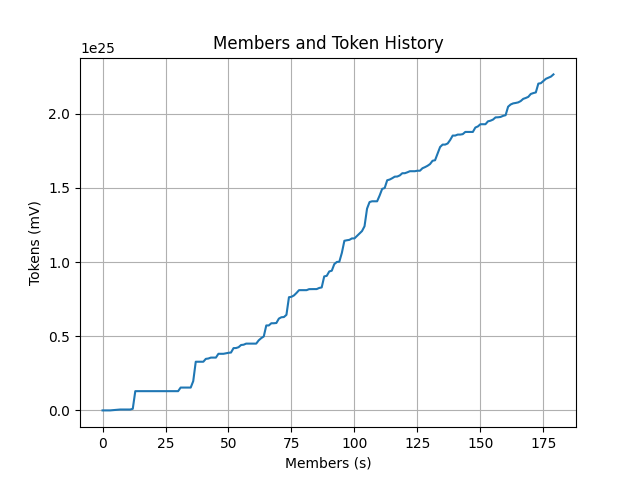
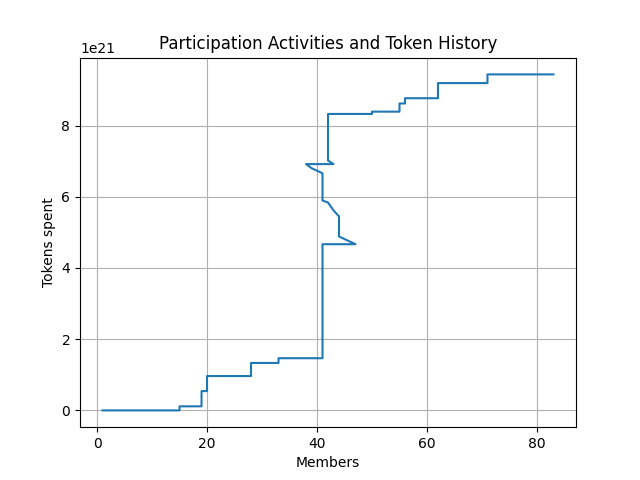
add constraints to util functions

diff --git a/utils.py b/utils.py
@@ -1,3 +1,4 @@
+from time import time
 from numpy import append
 from tokens import tokens
 
@@ -5,7 +6,7 @@ from tokens import tokens
 def in_euro(amount, usedToken):
     amount_in_euros = 0
     for token in tokens:
-        if(token["name"] == usedToken):
+        if token["name"] == usedToken:
             amount_in_euros = float(amount) * token["EUR"]
     return amount_in_euros
 
@@ -16,11 +17,15 @@ def get_amount_out_history(transactions):
 
     for transaction in transactions:
 
-        if (len(token_history) > 0):
-            newValue = int(in_euro(transaction.amount_in, transaction.token)) + \
+        if len(token_history) > 0:
+            newValue = int(transaction.amount_out) + \
                 int(token_history[len(token_history) - 1])
+        elif len(token_history) == 0:
+            newValue = int(transaction.amount_out)
+        elif len(token_history) > 0:
+            newValue = int(token_history[len(token_history) - 1])
         else:
-            newValue = int(transaction.amount_in)
+            newValue = 0
 
         token_history.append(newValue)
 
@@ -30,18 +35,23 @@ def get_amount_out_history(transactions):
 def get_amount_members(transactions):
 
     member_history = []
+    timestamps = []
 
     for transaction in transactions:
 
-        if(len(member_history) > 0):
-            if (int(transaction.amount_in) > 0):
+        if len(member_history) > 0:
+            if int(transaction.amount_in) > 0:
                 member_history.append(
                     member_history[len(member_history) - 1] + 1)
+            elif transaction.type == "Rage Quit" and transaction.date not in timestamps:
+                member_history.append(
+                    member_history[len(member_history) - 1] - 1)
+                timestamps.append(transaction.date)
             else:
                 member_history.append(
                     member_history[len(member_history) - 1])
         else:
-            if (int(transaction.amount_in) > 0):
+            if int(transaction.amount_in) > 0:
                 member_history.append(1)
             else:
                 member_history.append(0)

diff --git a/analysis.py b/analysis.py
@@ -1,3 +1,4 @@
+from audioop import reverse
 from matplotlib import pyplot as plt
 from utils import get_amount_members, get_amount_out_history
 from Transaction import Transaction
@@ -7,7 +8,7 @@ import numpy as np
 
 transactions = []
 
-with open('./data/metaCartel.csv') as csv_file:
+with open('./data/theLao.csv') as csv_file:
     csv_reader = csv.reader(csv_file, delimiter=',')
     line_count = 0
     for row in csv_reader:
@@ -18,6 +19,7 @@ with open('./data/metaCartel.csv') as csv_file:
             transaction = Transaction(
                 row[0], row[1], row[2], row[3], row[4], row[5], row[6], row[7], row[8])
             transactions.append(transaction)
+            transactions.reverse()
     print(f'Processed {line_count} lines.')
 
 
@@ -28,8 +30,8 @@ s = get_amount_out_history(transactions)
 fig, ax = plt.subplots()
 ax.plot(t, s)
 
-ax.set(xlabel='Members (s)', ylabel='Tokens (mV)',
-       title='Members and Token History')
+ax.set(xlabel='Members', ylabel='Tokens spent',
+       title='Participation Activities and Token History')
 ax.grid()
 
 fig.savefig("test.png")
